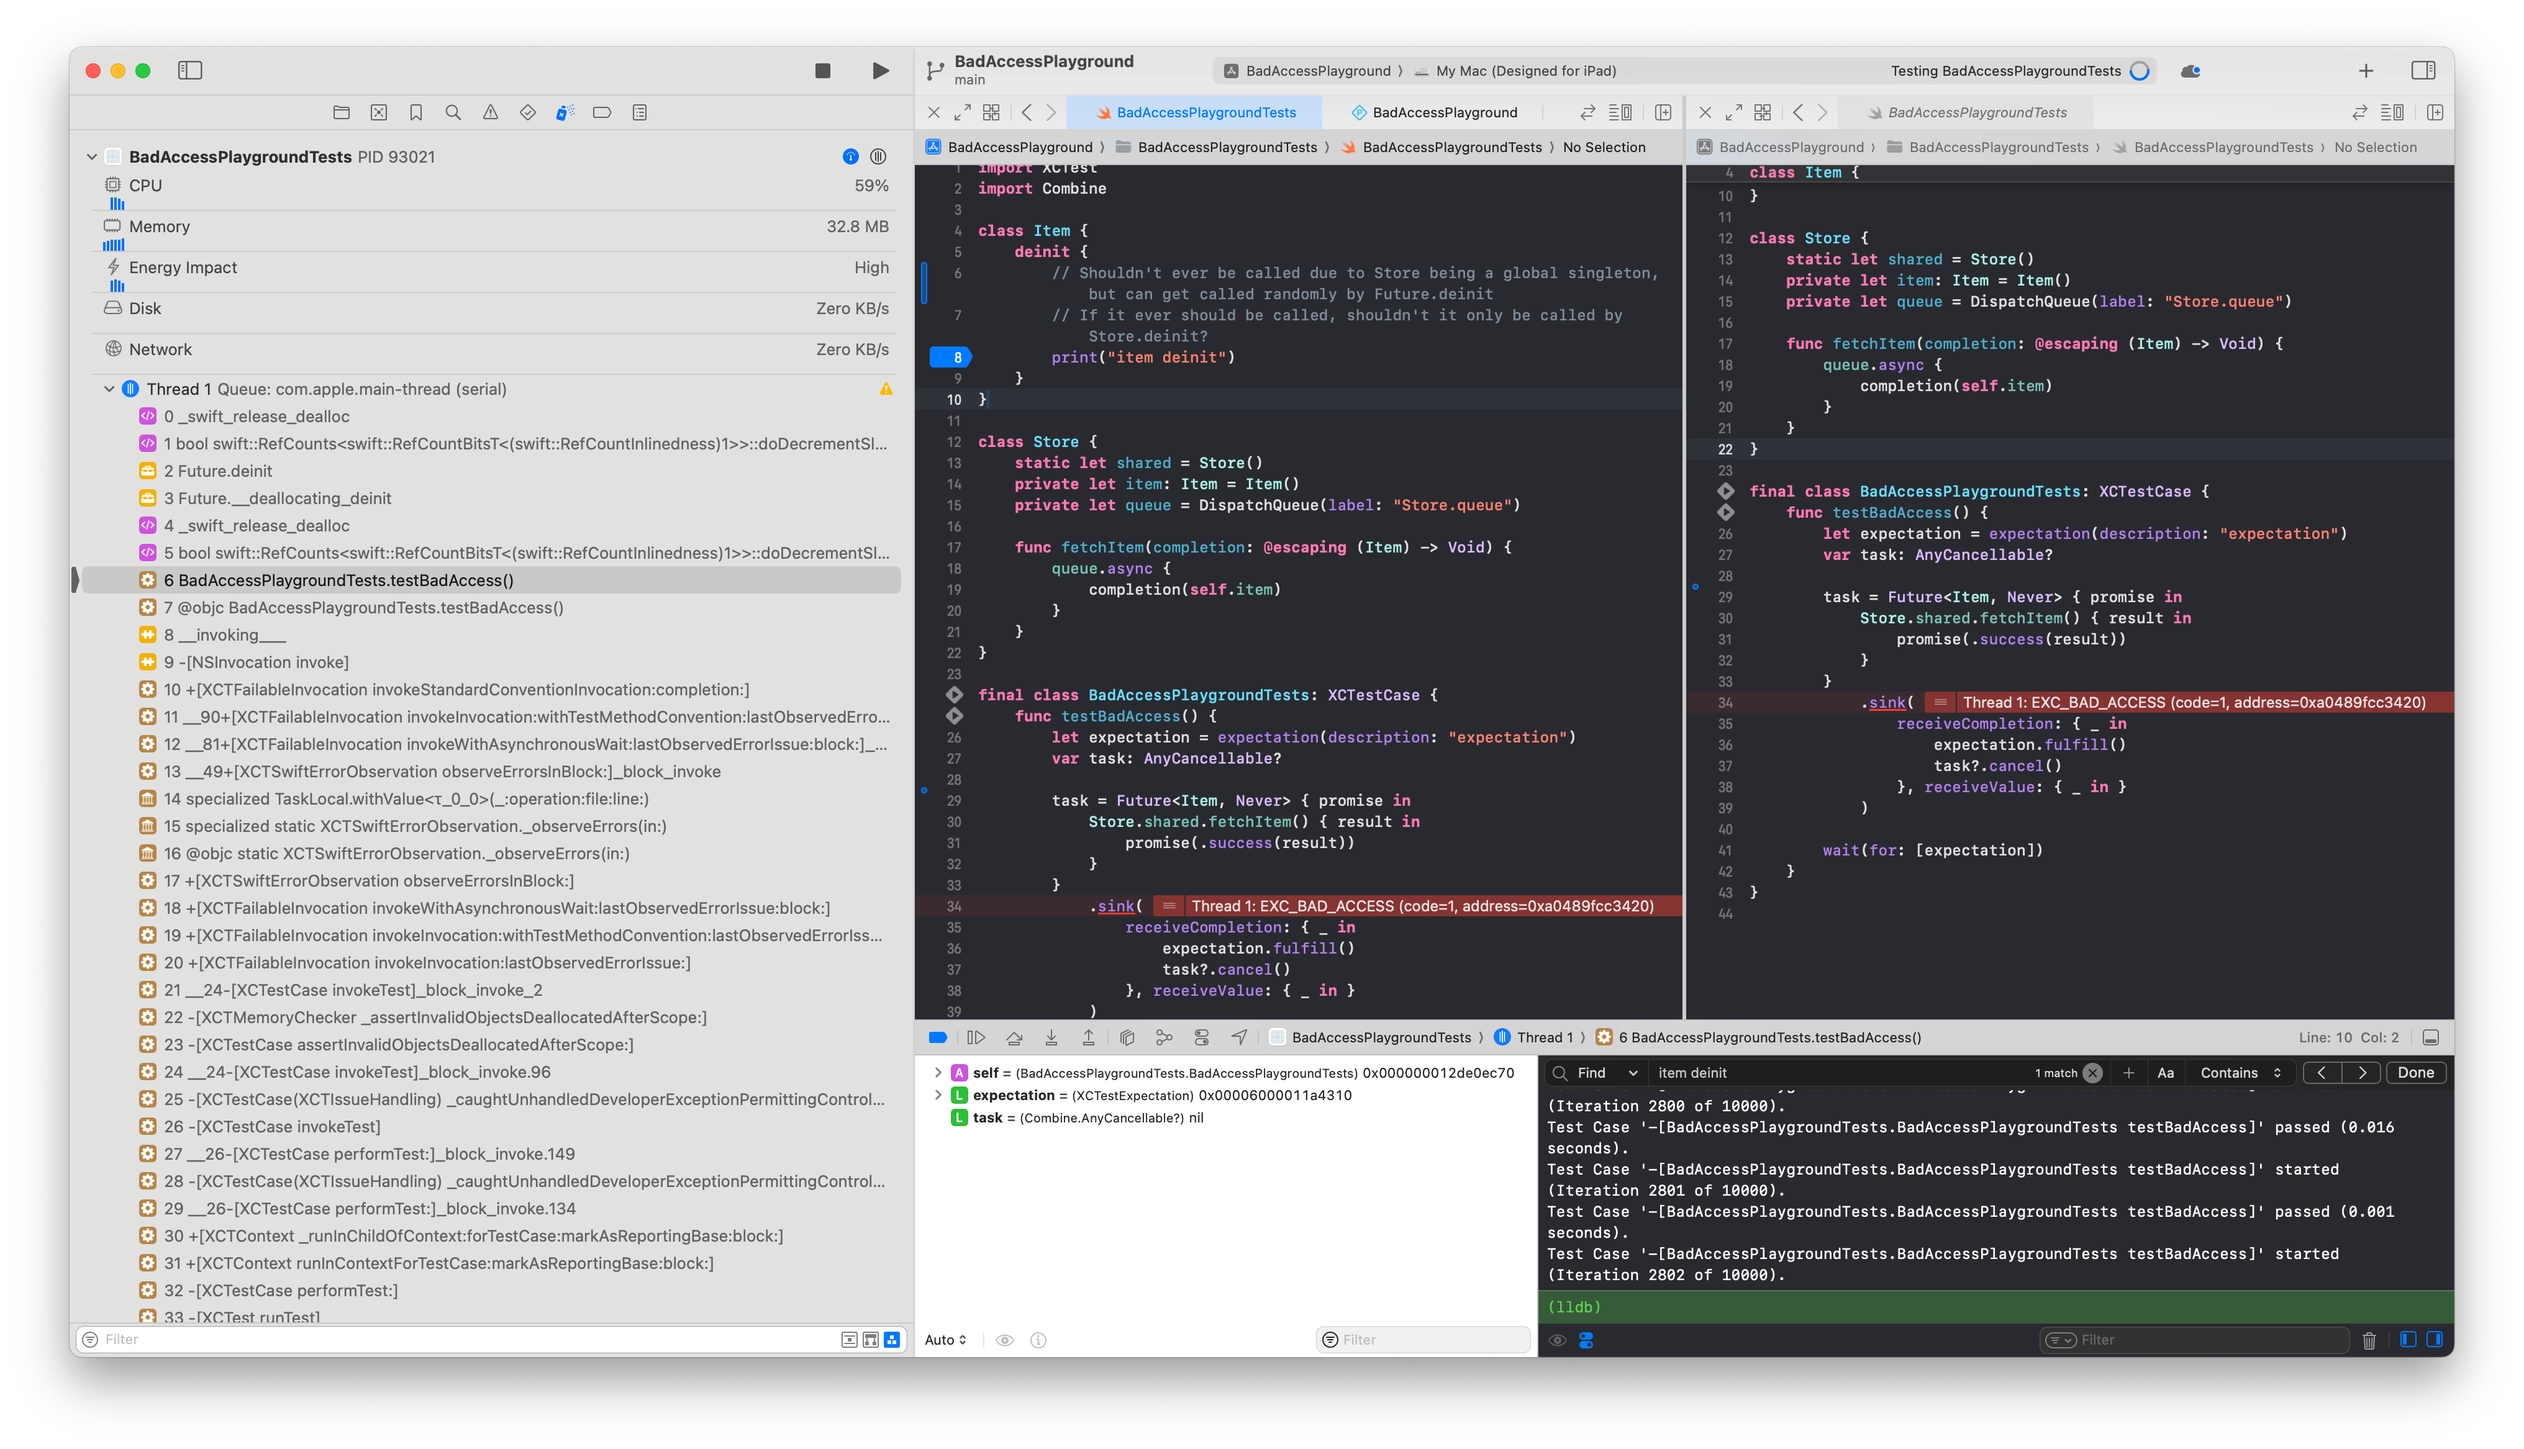
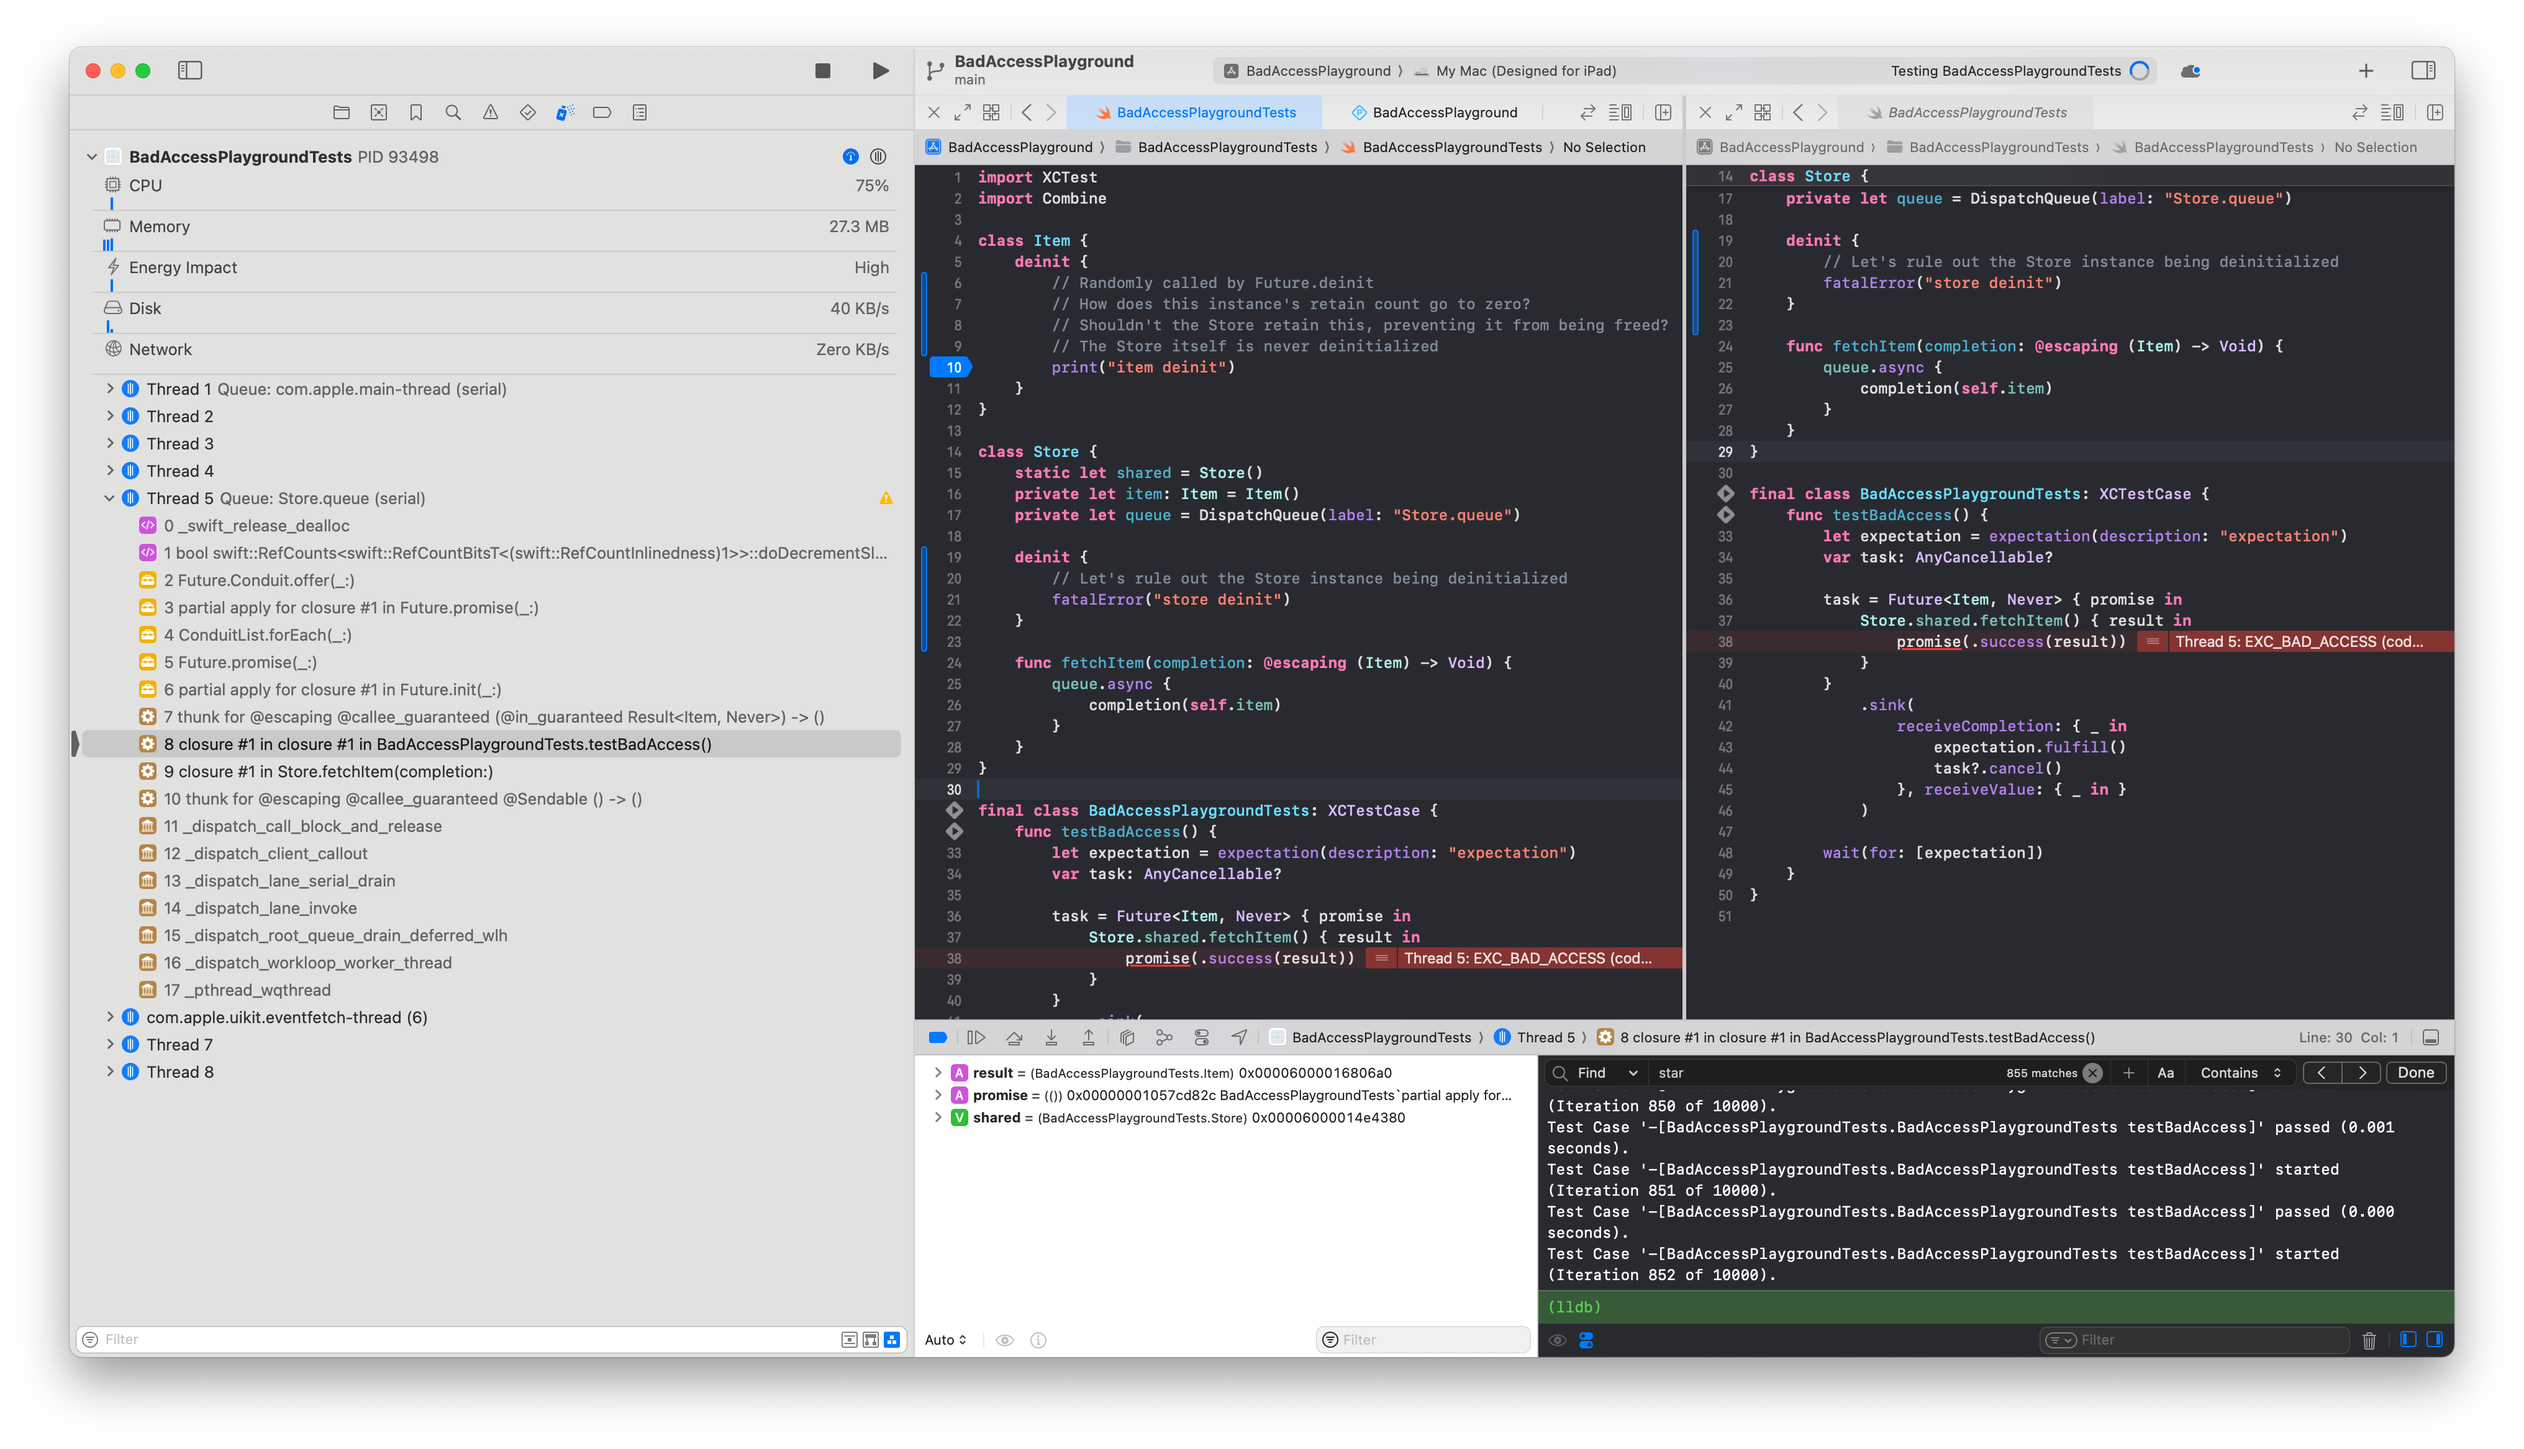
Rule out Store deinit

diff --git a/BadAccessPlaygroundTests/BadAccessPlaygroundTests.swift b/BadAccessPlaygroundTests/BadAccessPlaygroundTests.swift
@@ -3,8 +3,10 @@ import Combine
 
 class Item {
     deinit {
-        // Shouldn't ever be called due to Store being a global singleton, but can get called randomly by Future.deinit
-        // If it ever should be called, shouldn't it only be called by Store.deinit?
+        // Randomly called by Future.deinit
+        // How does this instance's retain count go to zero?
+        // Shouldn't the Store retain this, preventing it from being freed?
+        // The Store itself is never deinitialized
         print("item deinit")
     }
 }
@@ -13,6 +15,11 @@ class Store {
     static let shared = Store()
     private let item: Item = Item()
     private let queue = DispatchQueue(label: "Store.queue")
+    
+    deinit {
+        // Let's rule out the Store instance being deinitialized
+        fatalError("store deinit")
+    }
     
     func fetchItem(completion: @escaping (Item) -> Void) {
         queue.async {
